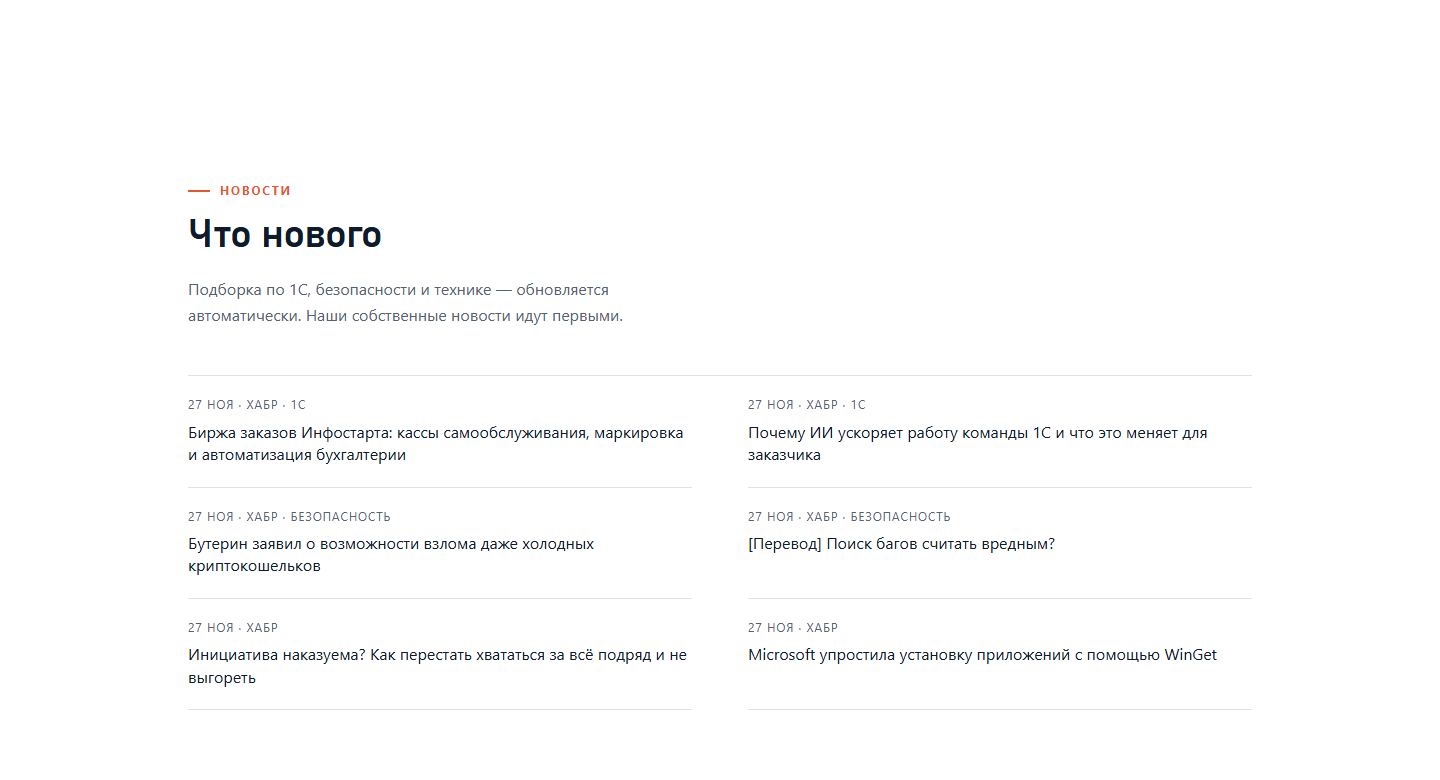
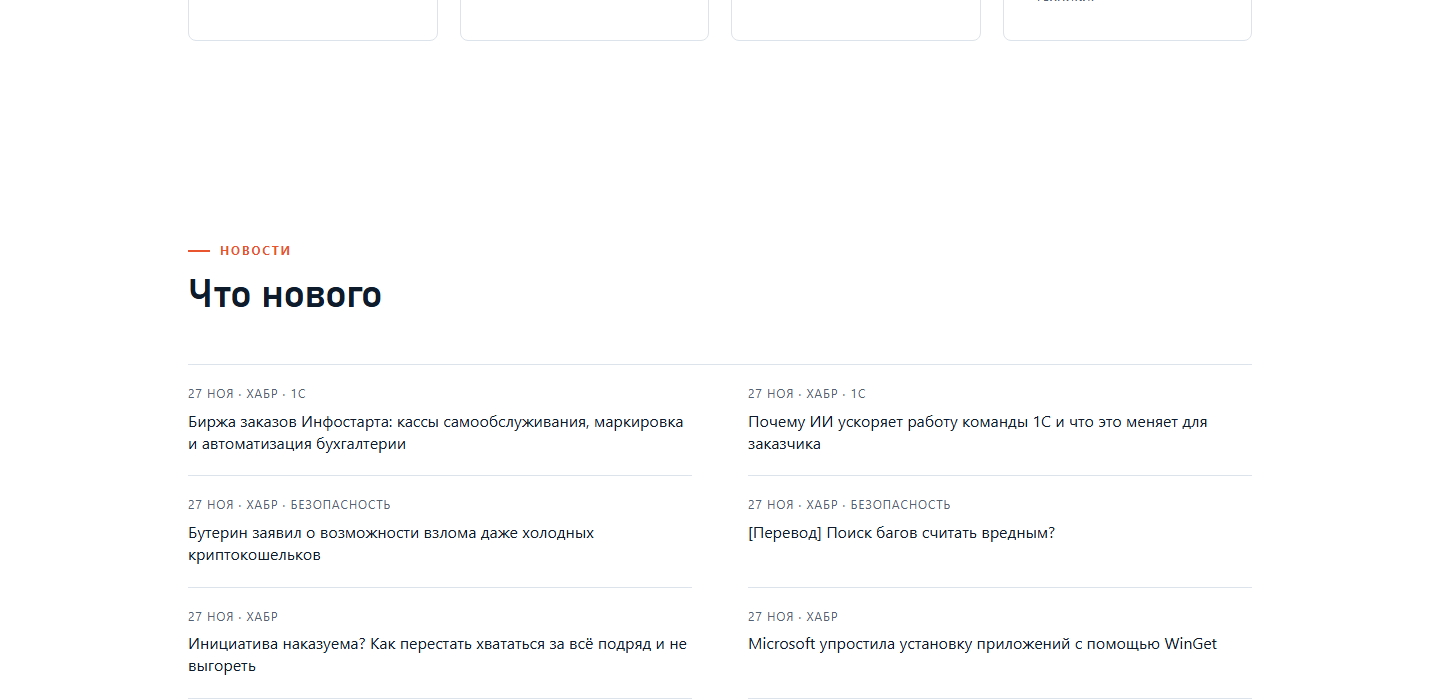
Новости: заголовок ближе к списку после удаления абзаца

diff --git a/index.html b/index.html
@@ -24,7 +24,7 @@
 
   <link rel="icon" href="assets/icon.png" type="image/png">
   <link rel="apple-touch-icon" href="assets/icon.png">
-  <link rel="stylesheet" href="assets/style.css?v=20261131">
+  <link rel="stylesheet" href="assets/style.css?v=20261132">
 
   <script type="application/ld+json">
   {
@@ -74,7 +74,7 @@
   <header class="site-header">
     <div class="container header-inner">
       <a class="brand" href="#top" aria-label="Интер-Техника-Плюс — на главную">
-        <img class="brand-logo" src="assets/logo.png?v=20261131" alt="Интер-Техника-Плюс" width="112" height="44">
+        <img class="brand-logo" src="assets/logo.png?v=20261132" alt="Интер-Техника-Плюс" width="112" height="44">
         <span class="brand-name">Интер-Техника<span class="brand-plus">+</span></span>
       </a>
 
@@ -366,7 +366,7 @@
     <a class="btn btn--ghost" href="wa.html" target="_blank" rel="noopener">Написать</a>
   </div>
 
-  <script src="assets/app.js?v=20261131" defer></script>
-  <script src="assets/map.js?v=20261131" defer></script>
+  <script src="assets/app.js?v=20261132" defer></script>
+  <script src="assets/map.js?v=20261132" defer></script>
 </body>
 </html>

diff --git a/requisites.html b/requisites.html
@@ -8,13 +8,13 @@
   <link rel="canonical" href="https://ivu.ru/requisites.html">
   <link rel="icon" href="assets/icon.png" type="image/png">
   <link rel="apple-touch-icon" href="assets/icon.png">
-  <link rel="stylesheet" href="assets/style.css?v=20261131">
+  <link rel="stylesheet" href="assets/style.css?v=20261132">
 </head>
 <body>
   <header class="site-header">
     <div class="container header-inner">
       <a class="brand" href="index.html" aria-label="Интер-Техника-Плюс — на главную">
-        <img class="brand-logo" src="assets/logo.png?v=20261131" alt="Интер-Техника-Плюс" width="112" height="44">
+        <img class="brand-logo" src="assets/logo.png?v=20261132" alt="Интер-Техника-Плюс" width="112" height="44">
         <span class="brand-name">Интер-Техника<span class="brand-plus">+</span></span>
       </a>
       <button class="nav-toggle" type="button" aria-expanded="false" aria-controls="nav">
@@ -134,6 +134,6 @@
     </div>
   </footer>
 
-  <script src="assets/app.js?v=20261131" defer></script>
+  <script src="assets/app.js?v=20261132" defer></script>
 </body>
 </html>

diff --git a/privacy.html b/privacy.html
@@ -8,13 +8,13 @@
   <meta name="robots" content="noindex, follow">
   <link rel="icon" href="assets/icon.png" type="image/png">
   <link rel="apple-touch-icon" href="assets/icon.png">
-  <link rel="stylesheet" href="assets/style.css?v=20261131">
+  <link rel="stylesheet" href="assets/style.css?v=20261132">
 </head>
 <body>
   <header class="site-header">
     <div class="container header-inner">
       <a class="brand" href="index.html" aria-label="Интер-Техника-Плюс — на главную">
-        <img class="brand-logo" src="assets/logo.png?v=20261131" alt="Интер-Техника-Плюс" width="112" height="44">
+        <img class="brand-logo" src="assets/logo.png?v=20261132" alt="Интер-Техника-Плюс" width="112" height="44">
         <span class="brand-name">Интер-Техника<span class="brand-plus">+</span></span>
       </a>
       <button class="nav-toggle" type="button" aria-expanded="false" aria-controls="nav">
@@ -102,6 +102,6 @@
     </div>
   </footer>
 
-  <script src="assets/app.js?v=20261131" defer></script>
+  <script src="assets/app.js?v=20261132" defer></script>
 </body>
 </html>

diff --git a/404.html b/404.html
@@ -7,13 +7,13 @@
   <meta name="robots" content="noindex">
   <link rel="icon" href="assets/icon.png" type="image/png">
   <link rel="apple-touch-icon" href="assets/icon.png">
-  <link rel="stylesheet" href="assets/style.css?v=20261131">
+  <link rel="stylesheet" href="assets/style.css?v=20261132">
 </head>
 <body>
   <header class="site-header">
     <div class="container header-inner">
       <a class="brand" href="index.html" aria-label="Интер-Техника-Плюс — на главную">
-        <img class="brand-logo" src="assets/logo.png?v=20261131" alt="Интер-Техника-Плюс" width="112" height="44">
+        <img class="brand-logo" src="assets/logo.png?v=20261132" alt="Интер-Техника-Плюс" width="112" height="44">
         <span class="brand-name">Интер-Техника<span class="brand-plus">+</span></span>
       </a>
       <nav class="nav" aria-label="Основная навигация">
@@ -47,6 +47,6 @@
     </div>
   </footer>
 
-  <script src="assets/app.js?v=20261131" defer></script>
+  <script src="assets/app.js?v=20261132" defer></script>
 </body>
 </html>

diff --git a/assets/style.css b/assets/style.css
@@ -1182,3 +1182,5 @@ a.news-item__title:hover { color: var(--blue); border-color: var(--blue); }
 @media (max-width: 760px) {
   .news-list { grid-template-columns: 1fr; }
 }
+/* Без вводного абзаца заголовок новостей держим ближе к списку */
+#news .section-head { margin-bottom: 26px; }
